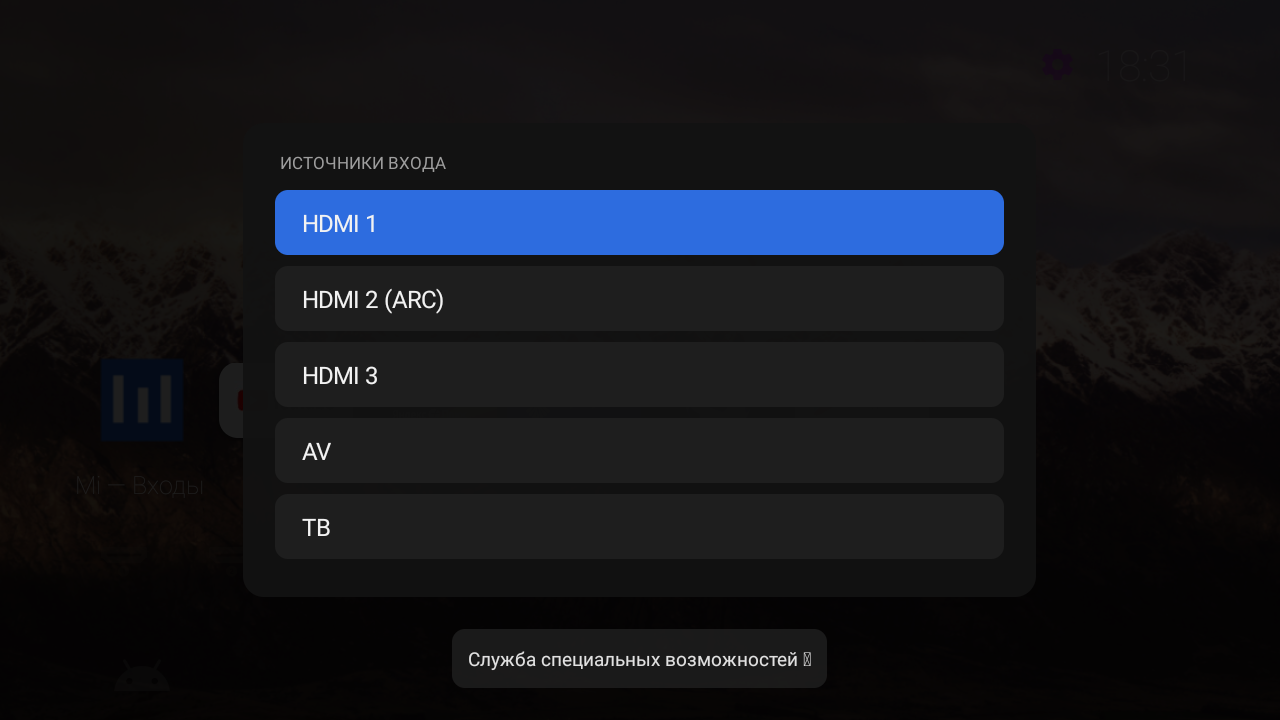
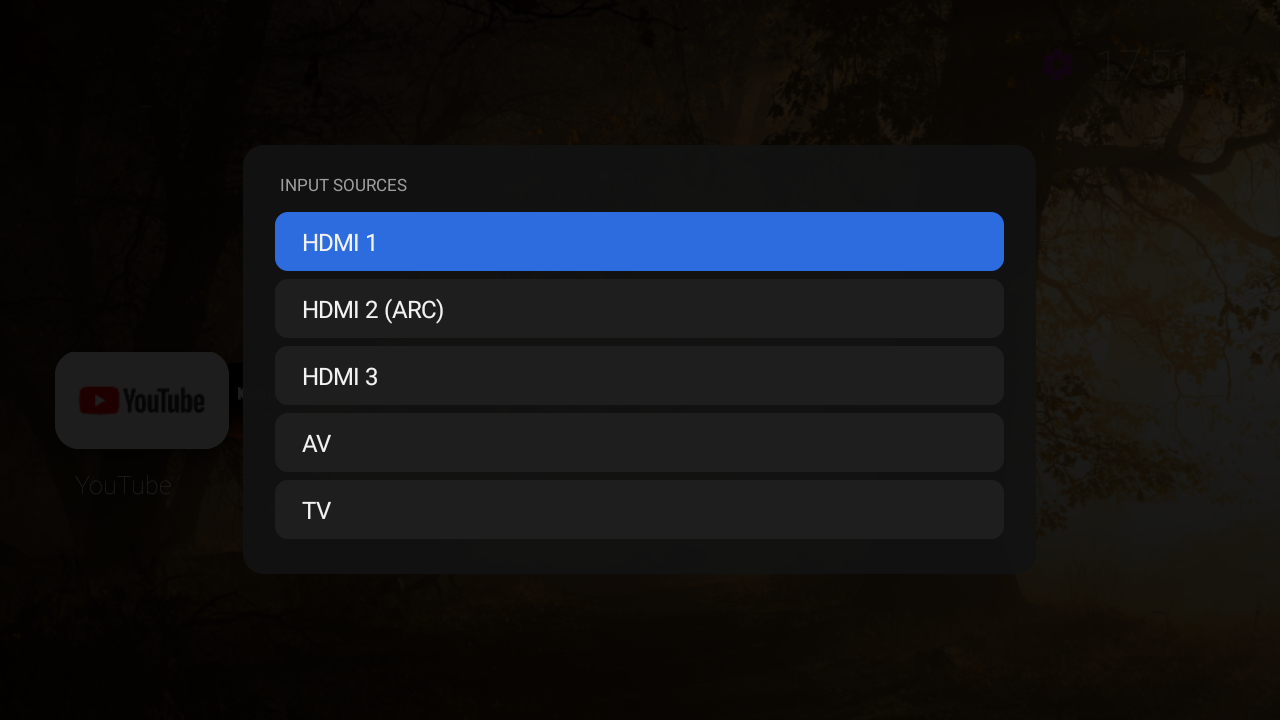
docs: English screenshots of the settings screen and the input picker

diff --git a/README.md b/README.md
@@ -21,11 +21,15 @@ No root, no bootloader unlock, no custom firmware, no factory reset — and
 > were created with AI assistance; the result was reviewed and tested on real
 > hardware by a human.
 
-## Screenshot
+## Screenshots
 
-![Mi — Inputs input picker on Xiaomi MiTV-MSSP0](docs/input-picker.png)
+![The Mi button opens the input list](docs/input-picker.png)
 
-*The Mi button opens the input list (Russian UI).*
+*The Mi button opens the input list.*
+
+![Settings](docs/settings.png)
+
+*Settings: service status, Mi key, pause, and the input list.*
 
 ## Features
 
@@ -312,11 +316,15 @@ MiTV-MSSP0 (устройство `amelie`, Android 9, сборка PI.4072) с P
 > **Сгенерировано ИИ.** Приложение, его исходный код и эта документация созданы
 > с помощью ИИ; результат проверен человеком на реальном телевизоре.
 
-## Скриншот
+## Скриншоты
 
-![Список входов Mi — Inputs на Xiaomi MiTV-MSSP0](docs/input-picker.png)
+![Кнопка Mi открывает список входов](docs/input-picker.png)
 
-*Кнопка Mi открывает список входов (русский интерфейс).*
+*Кнопка Mi открывает список входов.*
+
+![Настройки](docs/settings.png)
+
+*Настройки: состояние службы, клавиша Mi, пауза и список входов.*
 
 ## Возможности
 
